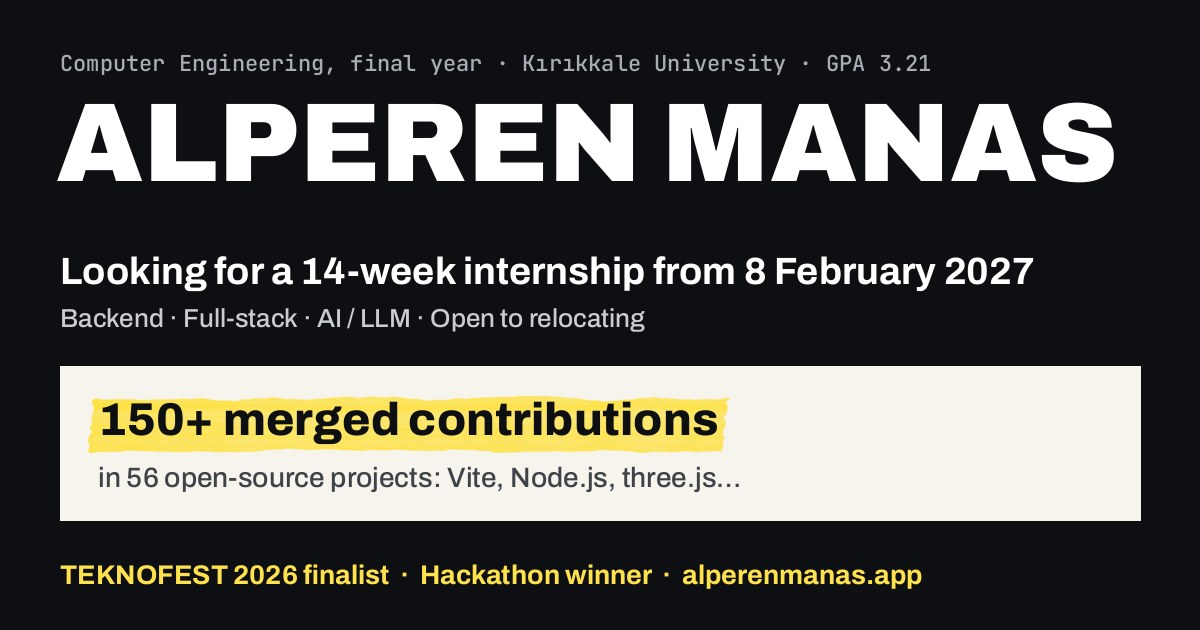
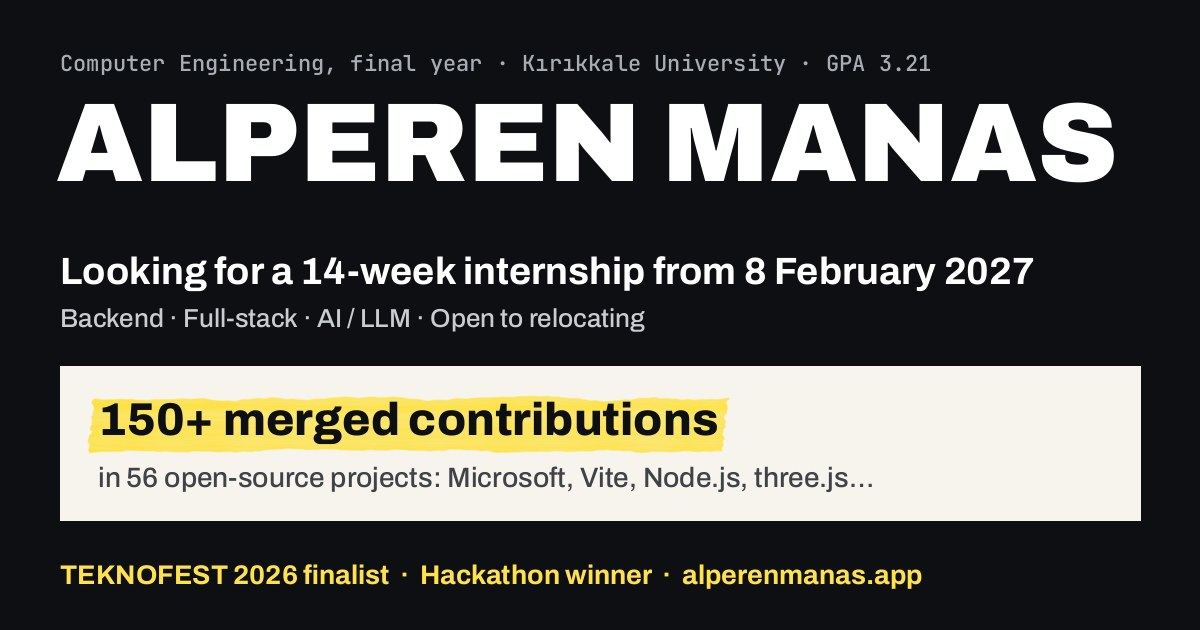
Mention Microsoft Semantic Kernel in the headline proof and share cards

Changed region(s): [[0.37, 0.7238, 0.7092, 0.7841]]

diff --git a/lib/tl.ts b/lib/tl.ts
@@ -112,7 +112,7 @@ const TR: Txt = {
   btnLi: 'LinkedIn',
   btnWa: 'WhatsApp',
   waText: 'Merhaba Alperen, sitenden ulaşıyorum.',
-  paperA: 'Aralarında Vite, Node.js undici ve three.js’in de bulunduğu, dünya çapında kullanılan ',
+  paperA: 'Aralarında Microsoft Semantic Kernel, Vite, Node.js undici ve three.js’in de bulunduğu, dünya çapında kullanılan ',
   paperMark: '{repos} projeye {total} kod katkım kabul edildi.',
   paperB: 'Yapay zekâ destekli denetimle hata adayı buluyorum, resmî referansla doğruluyorum, düzeltmeyi hatayı kanıtlayan bir testle gönderiyorum.',
   strip: [
@@ -139,7 +139,7 @@ const TR: Txt = {
   panelAria: 'Kanıt paneli',
   m: {
     top: 'Bilg. Müh. 4. sınıf · Kırıkkale Üni. · GNO 3.21 · Mezuniyet 2027',
-    paperA: 'Vite, Node.js undici ve three.js dahil, dünya çapında kullanılan ',
+    paperA: 'Microsoft Semantic Kernel, Vite, Node.js undici ve three.js dahil, dünya çapında kullanılan ',
     paperB: 'Hata adayını yapay zekâ destekli denetimle buluyor, resmî referansla doğruluyor, testle kanıtlayıp düzeltiyorum.',
     highlights: 'ÖNE ÇIKANLAR',
     swipe: 'kaydır →',
@@ -200,7 +200,7 @@ const EN: Txt = {
   btnLi: 'LinkedIn',
   btnWa: 'WhatsApp',
   waText: 'Hi Alperen, I found you through your website.',
-  paperA: 'In widely used open-source projects, including Vite, Node.js undici and three.js: ',
+  paperA: 'In widely used open-source projects, including Microsoft Semantic Kernel, Vite, Node.js undici and three.js: ',
   paperMark: '{total} merged contributions in {repos} projects.',
   paperB: 'I find bug candidates with AI-assisted review, confirm them against an official reference, and send each fix with a test that proves the bug.',
   strip: [
@@ -227,7 +227,7 @@ const EN: Txt = {
   panelAria: 'Evidence panel',
   m: {
     top: 'Comp. Eng., final year · Kırıkkale Univ. · GPA 3.21 · Class of 2027',
-    paperA: 'Including Vite, Node.js undici and three.js: ',
+    paperA: 'Including Microsoft Semantic Kernel, Vite, Node.js undici and three.js: ',
     paperB: 'I find bug candidates with AI-assisted review, confirm them against an official reference, and fix them with a test that proves the bug.',
     highlights: 'HIGHLIGHTS',
     swipe: 'swipe →',
